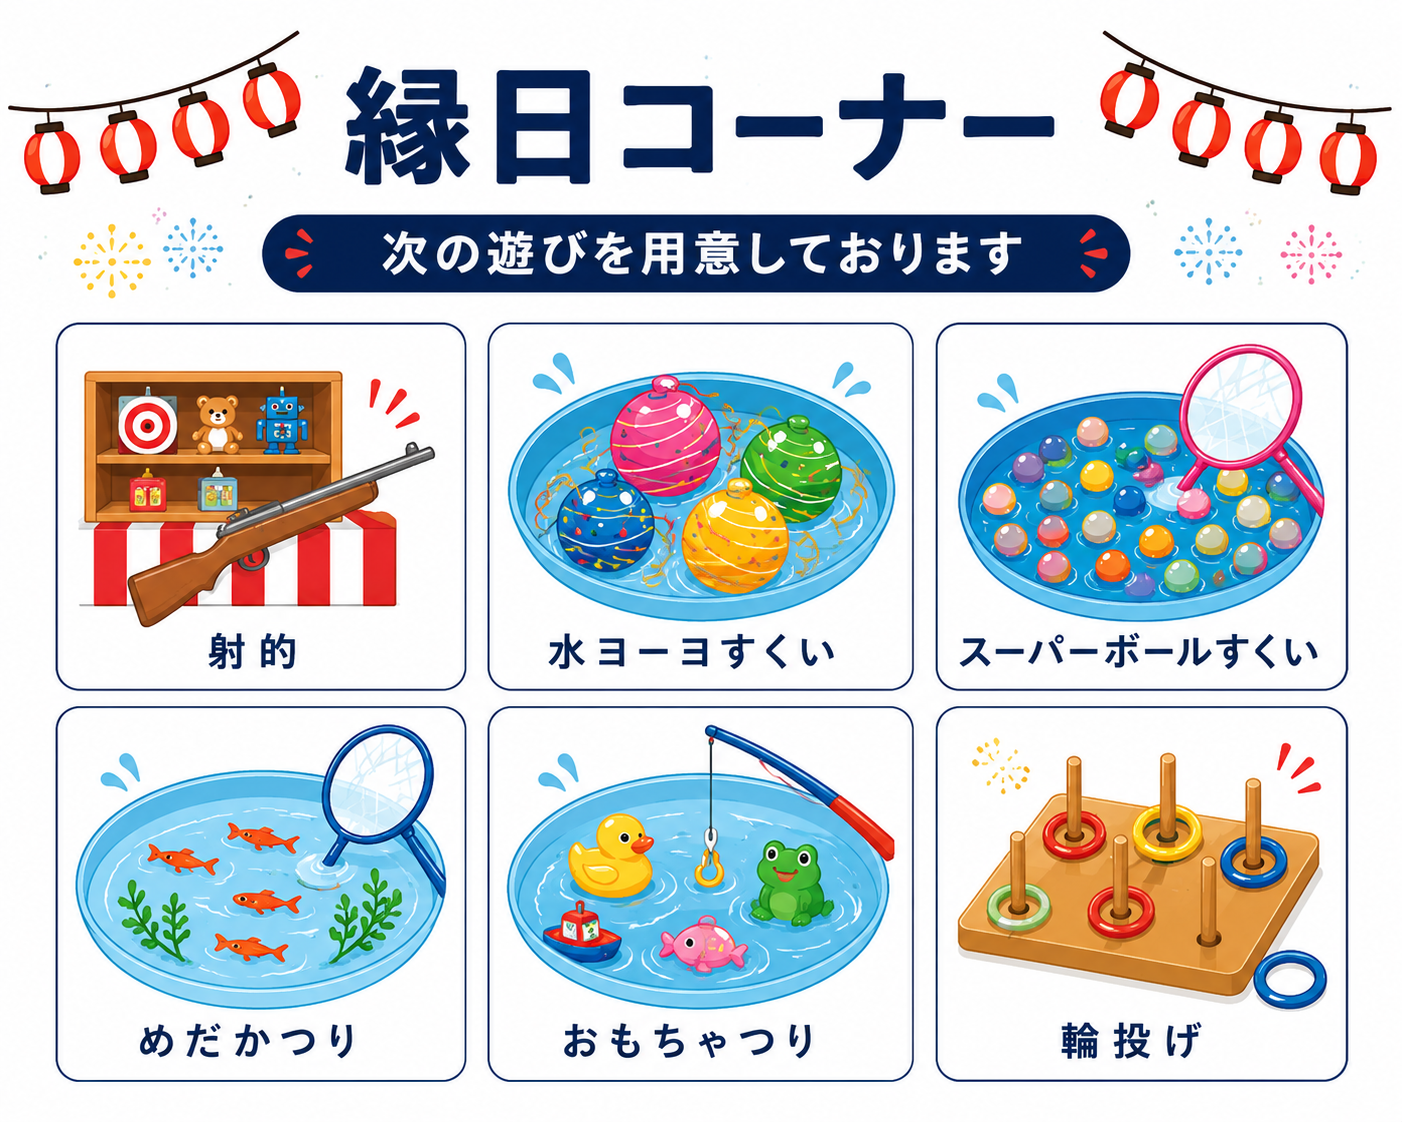
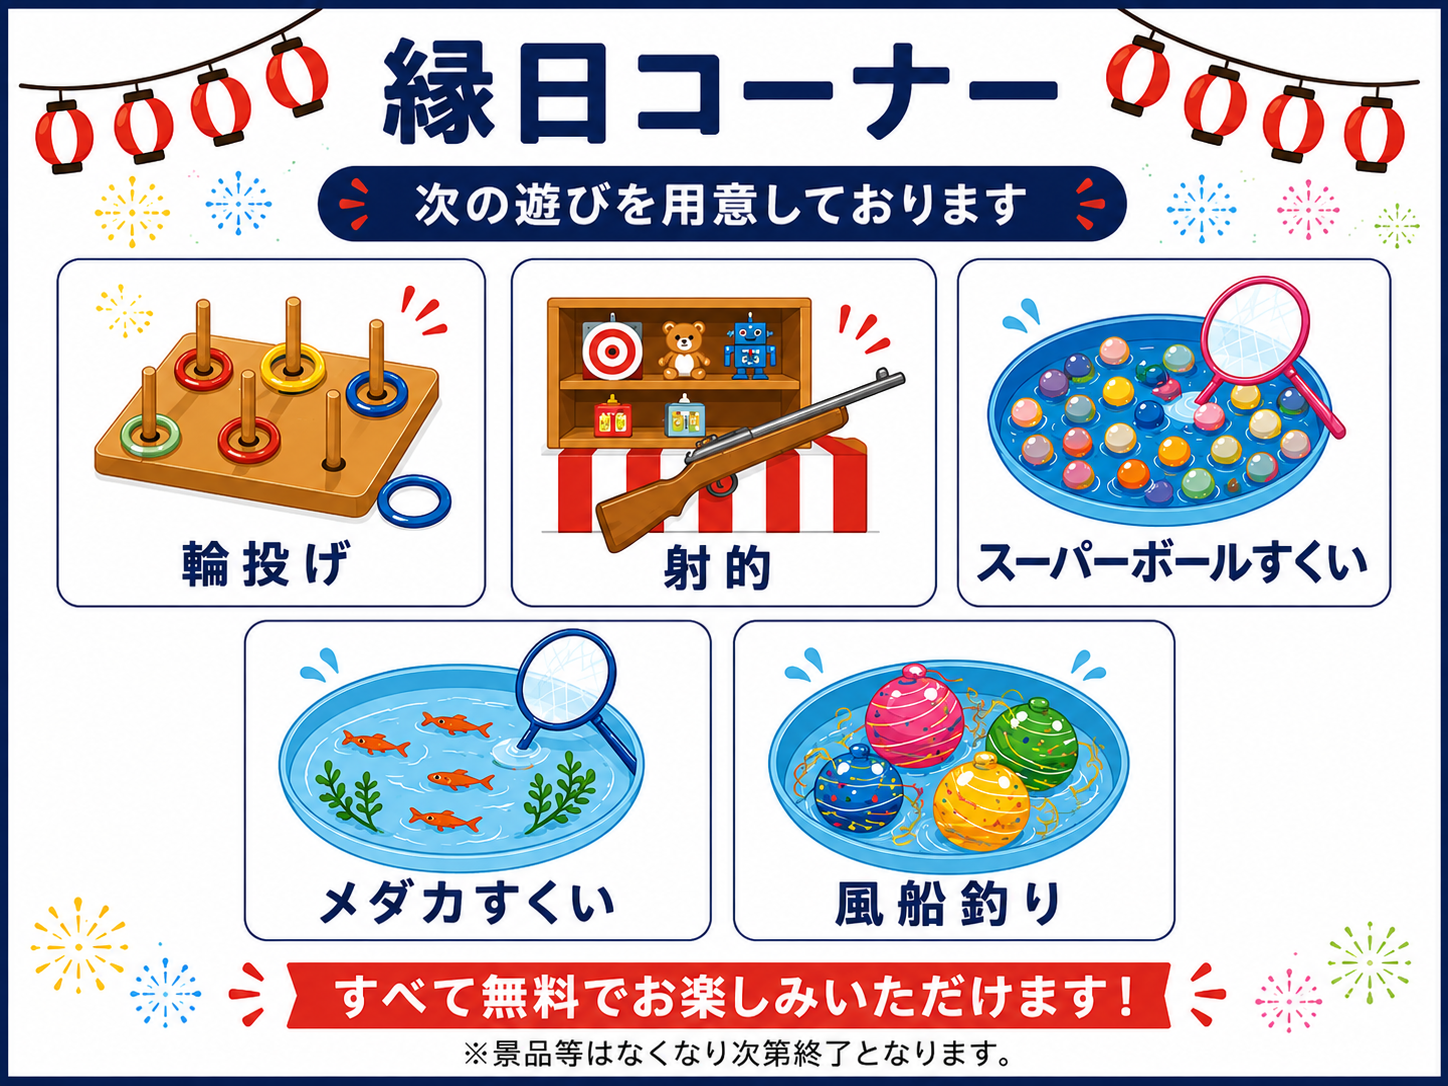
Add files via upload

diff --git a/index.html b/index.html
@@ -138,32 +138,30 @@
   border-radius:8px;
 }
 </style>
-<style id="ver33-ennichi-css">
-.ennichi-list-dialog{
-  width:min(760px,94vw);max-height:92vh;overflow:auto;background:#fffaf0;
-  border:4px solid #e21a2c
+<style id="ver34-ennichi-image-css">
+.ennichi-image-dialog{
+  width:min(860px,96vw);
+  max-height:94vh;
+  overflow:auto;
+  padding:10px;
+  background:#fff;
 }
-.ennichi-content{padding:26px 20px 22px;text-align:center}
-.ennichi-content h3{margin:0;color:#d10d17;font-size:clamp(25px,5vw,38px)}
-.ennichi-free{
-  display:inline-block;margin:10px 0 18px;padding:8px 18px;border-radius:999px;
-  background:#0878bd;color:#fff;font-weight:900;font-size:clamp(15px,3vw,21px)
+.ennichi-image-dialog .ennichi-visual{
+  display:block;
+  width:100%;
+  height:auto;
+  max-height:88vh;
+  object-fit:contain;
+  border-radius:12px;
 }
-.ennichi-game-grid{display:grid;grid-template-columns:repeat(3,minmax(0,1fr));gap:12px}
-.ennichi-game{
-  min-height:120px;padding:14px 8px;border:3px solid #f2b300;border-radius:16px;
-  background:#fff;display:flex;flex-direction:column;align-items:center;justify-content:center;
-  gap:7px;box-shadow:0 4px 10px #0001
-}
-.ennichi-game span{font-size:42px;line-height:1}
-.ennichi-game strong{font-size:clamp(16px,2.6vw,22px);line-height:1.35;color:#052b66}
-.ennichi-caution{margin:16px 0 0;font-size:13px;font-weight:700;color:#5c3b16}
 @media(max-width:620px){
-  .ennichi-content{padding:24px 12px 18px}
-  .ennichi-game-grid{grid-template-columns:repeat(2,minmax(0,1fr));gap:9px}
-  .ennichi-game{min-height:104px;padding:10px 6px}
-  .ennichi-game:last-child{grid-column:1/-1}
-  .ennichi-game span{font-size:35px}
+  .ennichi-image-dialog{
+    width:96vw;
+    padding:6px;
+  }
+  .ennichi-image-dialog .ennichi-visual{
+    max-height:86vh;
+  }
 }
 </style></head>
 <body class="">
@@ -217,20 +215,9 @@ TIMETABLE: 70.64%, 44.83% / サイズ 82%
 <li>項目</li> を追加・削除すると、縁日の項目数も変更できます。
 ========================================================= -->
 <div aria-label="縁日コーナー" aria-modal="true" class="overlay" id="ennichiModal" role="dialog">
-<div class="dialog ennichi-dialog ennichi-list-dialog">
+<div class="dialog ennichi-dialog ennichi-image-dialog">
 <button class="close" type="button">×</button>
-<div class="ennichi-content">
-<h3>🏮 縁日コーナー</h3>
-<p class="ennichi-free">すべて無料でお楽しみいただけます！</p>
-<div class="ennichi-game-grid">
-<div class="ennichi-game"><span aria-hidden="true">⭕</span><strong>輪投げ</strong></div>
-<div class="ennichi-game"><span aria-hidden="true">🎯</span><strong>射的</strong></div>
-<div class="ennichi-game"><span aria-hidden="true">🔵</span><strong>スーパーボールすくい</strong></div>
-<div class="ennichi-game"><span aria-hidden="true">🐟</span><strong>メダカすくい</strong></div>
-<div class="ennichi-game"><span aria-hidden="true">🎈</span><strong>風船釣り</strong></div>
-</div>
-<p class="ennichi-caution">※ 景品等はなくなり次第終了となります。</p>
-</div>
+<img alt="縁日コーナー　輪投げ、射的、スーパーボールすくい、メダカすくい、風船釣り" class="ennichi-visual" loading="lazy" src="ennichi-corner.png?v=35"/>
 </div>
 </div>
 <!-- ===== 編集② 縁日コーナー ここまで ===== -->
@@ -275,8 +262,8 @@ TIMETABLE: 70.64%, 44.83% / サイズ 82%
 <label for="shopImageFile">新しい写真</label><input accept="image/*" id="shopImageFile" type="file"/>
 <label>プレビュー</label>
 <div class="shop-preview-frame" id="shopPreviewFrame">
-<img alt="写真プレビュー" class="shop-editor-preview" id="shopImagePreview">
-</img></div>
+<img alt="写真プレビュー" class="shop-editor-preview" id="shopImagePreview"/>
+</div>
 </div>
 <div class="batch-current-actions">
 <button class="shop-apply" id="applyShopEdit" type="button">この店舗の変更を反映</button>
